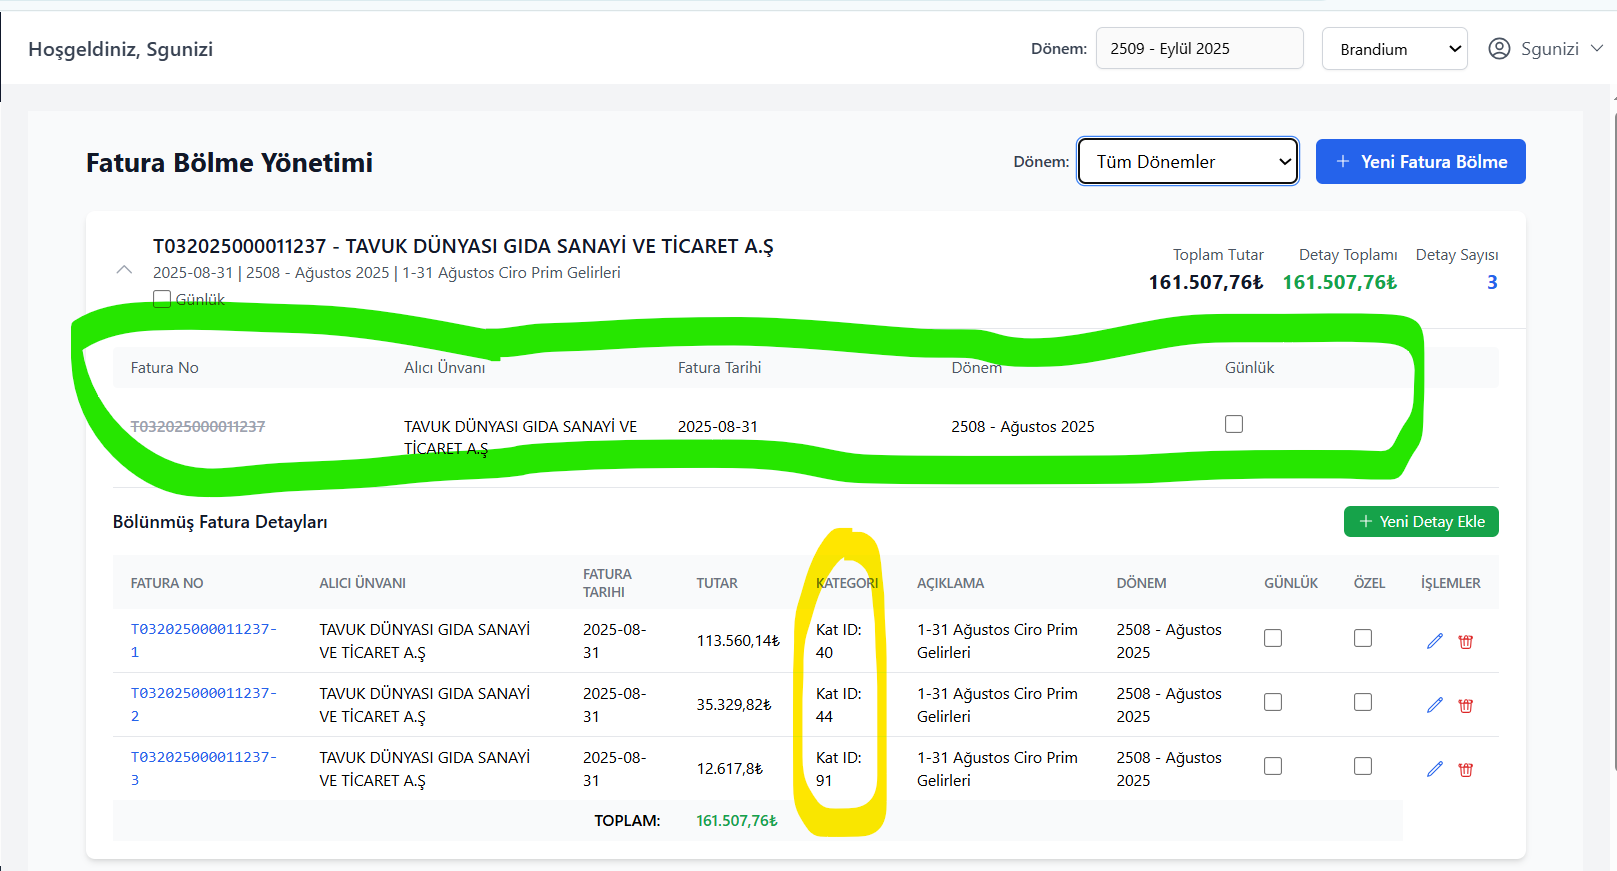
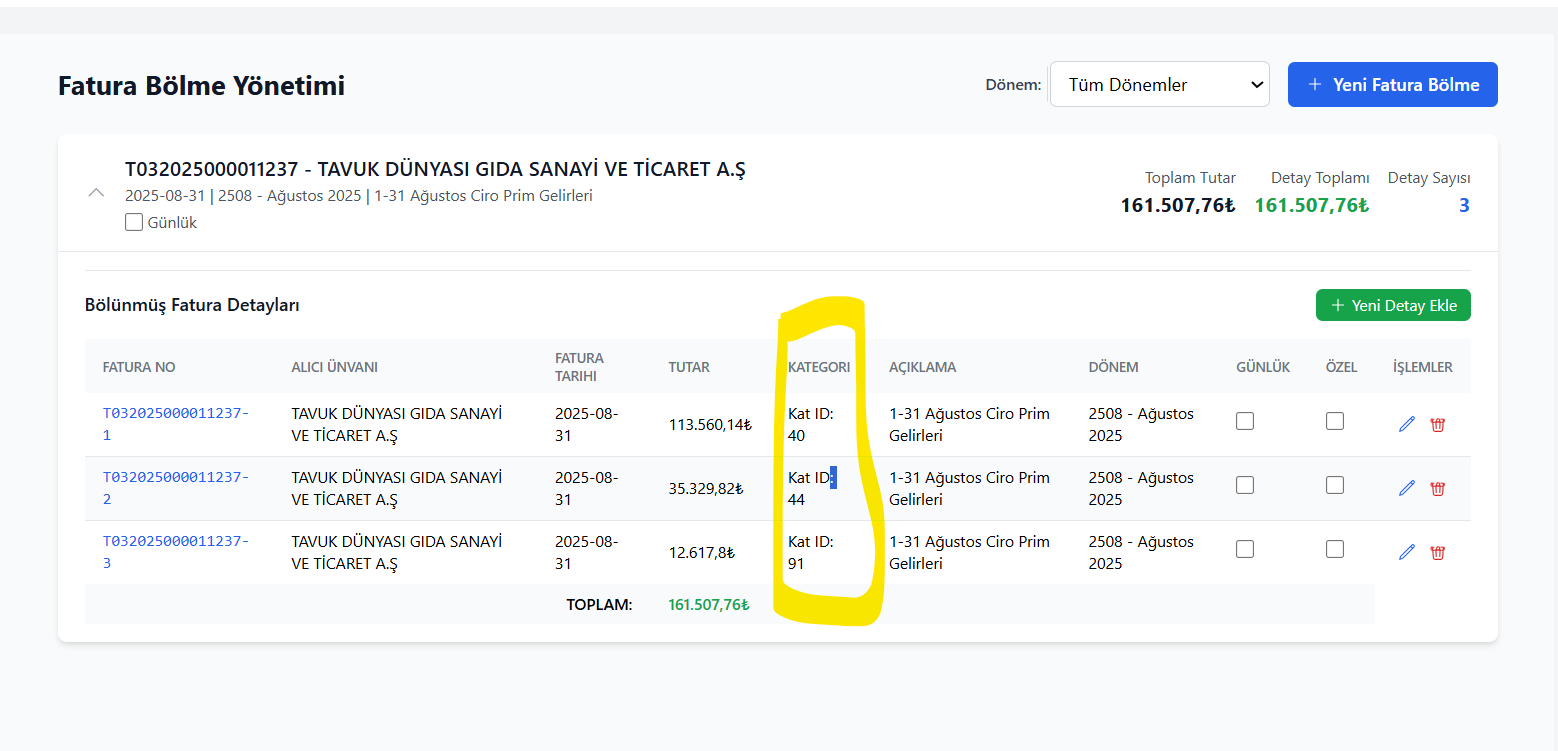
Feature: Fatura Bölme Yönetimi

diff --git a/CopyCat/pages/FaturaBolmeYonetimi.tsx b/CopyCat/pages/FaturaBolmeYonetimi.tsx
@@ -48,7 +48,7 @@ const FaturaBolmeYonetimiPage = () => {
             id: fatura.Fatura_ID,
             faturaNo: fatura.Bolunmus_Fatura,
             tutar: parseFloat(fatura.Tutar),
-            kategori: fatura.Kategori_ID ? `Kat ID: ${fatura.Kategori_ID}` : 'Kategorisiz',
+            kategori: fatura.Kategori_Adi || 'Kategorisiz',
             ozel: fatura.Ozel,
           });
 
@@ -434,27 +434,7 @@ const FaturaBolmeYonetimiPage = () => {
 
                 {fatura.acik && (
                   <div className="px-6 py-4">
-                    <div className="mb-4 grid grid-cols-5 gap-4 text-sm text-gray-600 bg-gray-50 px-4 py-2 rounded">
-                      <div>Fatura No</div>
-                      <div>Alıcı Ünvanı</div>
-                      <div>Fatura Tarihi</div>
-                      <div>Dönem</div>
-                      <div>Günlük</div>
-                    </div>
-                    <div className="mb-4 grid grid-cols-5 gap-4 text-sm px-4 py-2">
-                      <div className="font-medium text-gray-400 line-through">{fatura.orijinalFaturaNo}</div>
-                      <div>{fatura.aliciUnvani}</div>
-                      <div>{fatura.faturaTarihi}</div>
-                      <div>{donemFormatla(fatura.donem)}</div>
-                      <div>
-                        <input
-                          type="checkbox"
-                          checked={fatura.gunluk}
-                          readOnly
-                          className="w-4 h-4 text-blue-600 bg-gray-100 border-gray-300 rounded"
-                        />
-                      </div>
-                    </div>
+
 
                     <div className="border-t pt-4">
                       <div className="flex justify-between items-center mb-4">

diff --git a/backend/db/crud.py b/backend/db/crud.py
@@ -2520,8 +2520,10 @@ def get_bolunmus_faturalar(db: Session):
         t.Fatura_Numarasi AS Bolunmus_Fatura,
         s.Fatura_Numarasi AS Ana_Fatura,
         s.Tutar AS Ana_Tutar,
+        k_t.Kategori_Adi AS Kategori_Adi,
         t.*
     FROM SilverCloud.e_Fatura t
+    LEFT JOIN SilverCloud.Kategori k_t ON t.Kategori_ID = k_t.Kategori_ID
     INNER JOIN SilverCloud.e_Fatura s
         ON t.Fatura_Numarasi LIKE CONCAT(s.Fatura_Numarasi, '-%') AND t.Fatura_Numarasi != s.Fatura_Numarasi
     INNER JOIN SilverCloud.Kategori k

diff --git a/backend/schemas/fatura_bolme.py b/backend/schemas/fatura_bolme.py
@@ -14,6 +14,7 @@ class FaturaBolmeBase(BaseModel):
     Alici_VKN_TCKN: Optional[str] = None
     Tutar: Decimal
     Kategori_ID: Optional[int] = None
+    Kategori_Adi: Optional[str] = None
     Aciklama: Optional[str] = None
     Donem: int
     Ozel: bool
